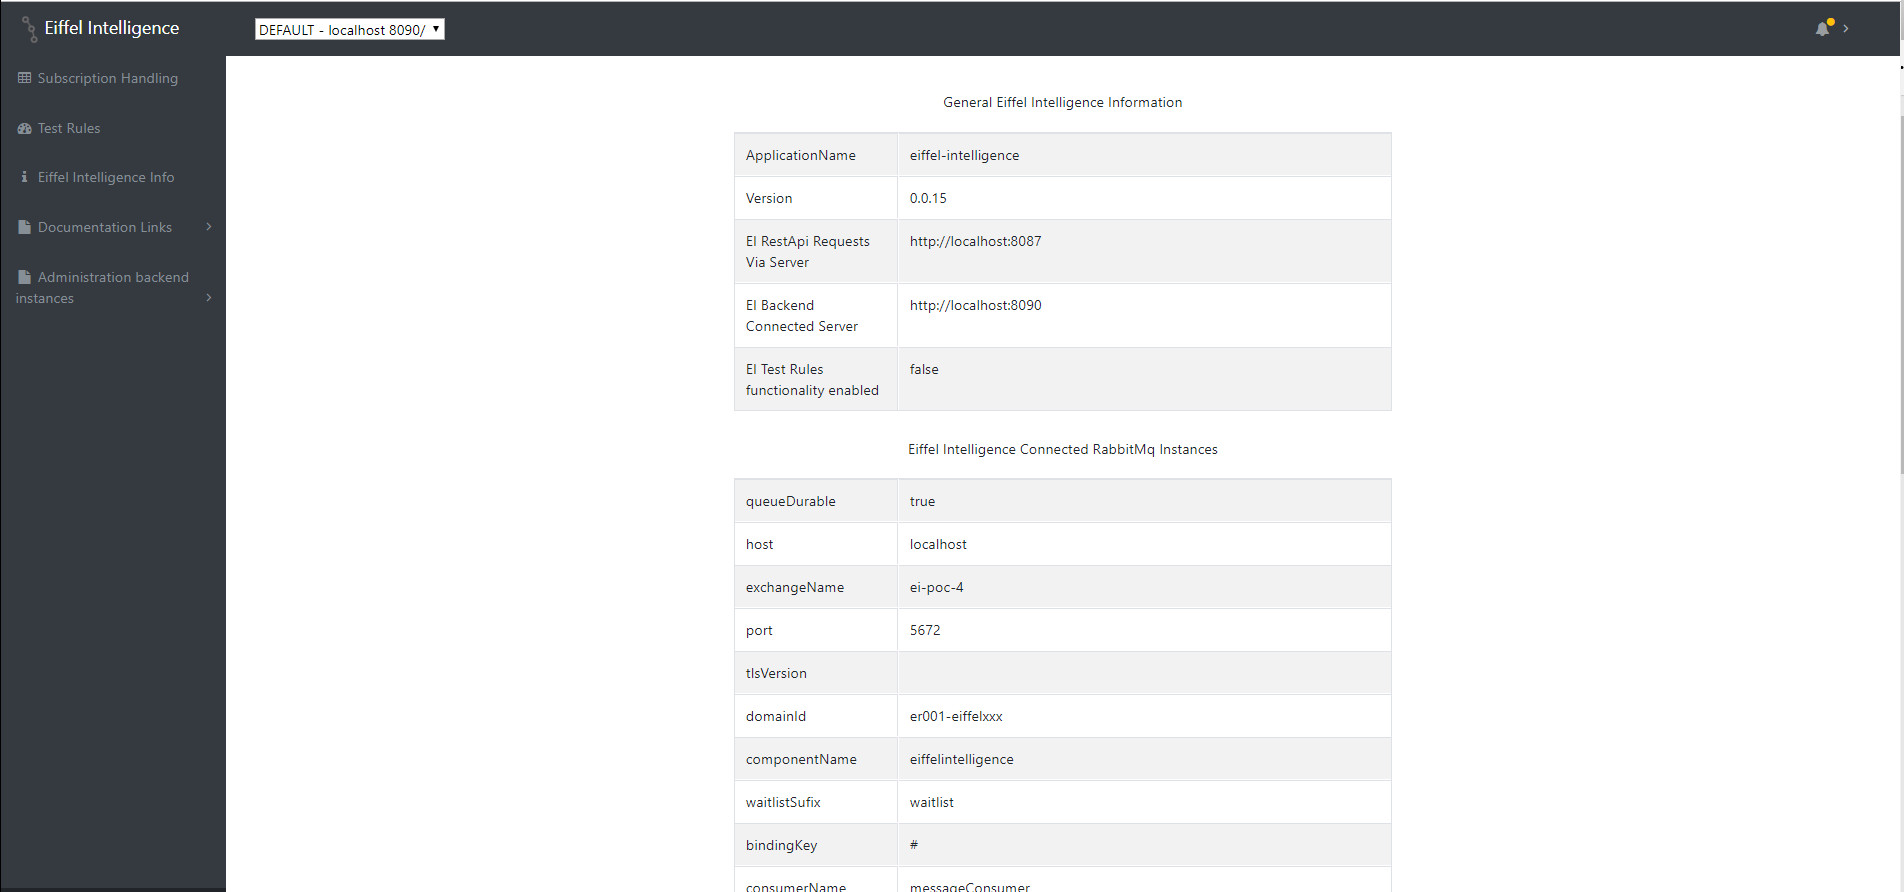
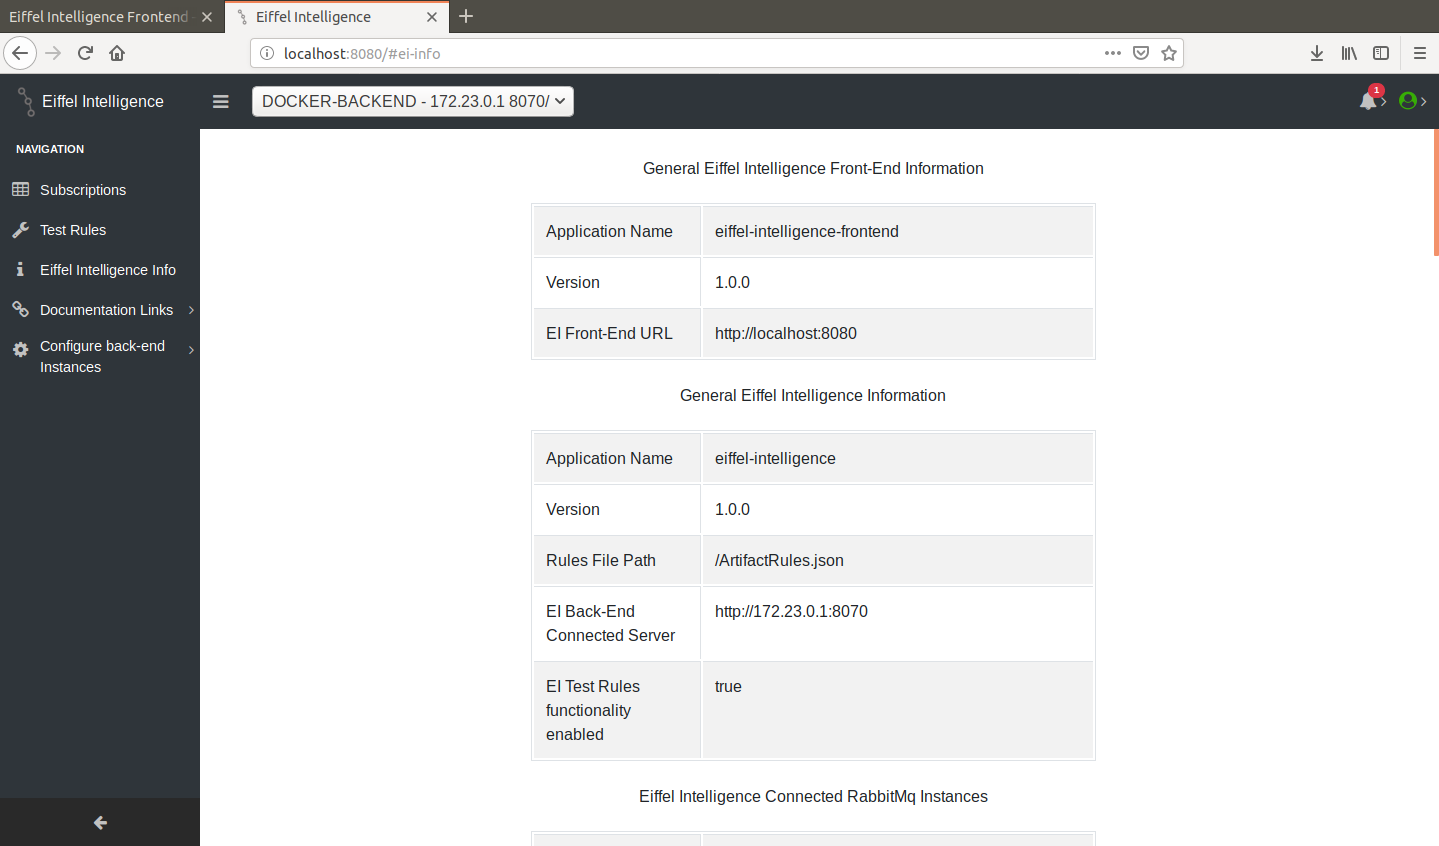
Updated images with new GUI
Removed html tags intest-rules.md file

diff --git a/wiki/markdown/test-rules.md b/wiki/markdown/test-rules.md
@@ -1,41 +1,58 @@
 # Test Rules User Guide
 
-<p>Clicking on the Test Rules element in the navigator window opens an interface in the work window and interacts with the /rules/rule-check end point of Eiffel Intelligence. This interface can be used to test rules on events.</p>
+Clicking on the Test Rules element in the navigator window opens an
+interface in the work window and interacts with the `/rules/rule-check`
+end point of Eiffel Intelligence. This interface can be used to test
+rules on events.
 
-<h2>“Test Rules” Graphical User Interface</h2>
+## “Test Rules” Graphical User Interface ##
 
-<p>The graphical user interface for testing rules consists of two panes. Left pane is intended to add the rules and right pane is intended for adding the Eiffel events.</p>
+The graphical user interface for testing rules consists of two panes.
+Left pane is intended to add the rules and right pane is intended for
+adding the Eiffel events.
 
 <img src="images/GUI_TestRules.png" />
 
-<h3>Add</h3>
+### Add ###
 
-<p>Add buttons are for adding new rules/events. When you click on one of them, a new text area will show up. Then you can write or paste rule/event into it. There can be only one JSON object per text area. This means that it is not allowed to have more than one rule/event per text area.</p>
+Add buttons are for adding new rules/events. When you click on one of
+them, a new text area will show up. Then you can write or paste rule/event
+into it. There can be only one JSON object per text area. This means
+that it is not allowed to have more than one rule/event per text area.
 
-<h3>Load From File</h3>
+### Load From File ###
 
-<p>Load buttons are for loading rules/events from external files. The file content should be formatted as JSON objects in a JSON list, ex. [{Object1}, {Object2}]. After clicking on the button, it is possible to choose between replacing and appending to already written rules/events. A pop-up window with those two options shows up.</p>
+Load buttons are for loading rules/events from external files. The file
+content should be formatted as JSON objects in a JSON list, ex.
+`[{Object1}, {Object2}]`. After clicking on the button, it is possible
+to choose between replacing and appending to already written rules/events.
+A pop-up window with those two options shows up.
 
 <img src="images/GUI_TestRules_Replace_Append.png" />
 
-<p>After that, you need to choose from which file you want to load rules/events.</p>
+After that, you need to choose from which file you want to load rules/events.
 
 <img src="images/GUI_TestRules_Browse_File.png" />
 
-<p>When the file has been chosen, rules or events are loaded into text areas. In this example events template was loaded and the result can be seen on the image below.</p>
+When the file has been chosen, rules or events are loaded into text areas.
+In this example events template was loaded and the result can be seen on
+the image below.
 
 <img src="images/GUI_TestRules_Events.png" />
 
-<h3>Download</h3>
+### Download ###
 
-<p>Download buttons are for downloading edited rules/events. This enables to edit rules/events locally and then upload them using above mentioned “Load From File” buttons.</p>
+Download buttons are for downloading edited rules/events. This enables to
+edit rules/events locally and then upload them using above mentioned
+“Load From File” buttons.
 
-<h3>Get Template</h3>
+### Get Template ###
 
-<p>By clicking on "Get Template" buttons you will download rules respective events template. Rule´s template contains 3 rules and event´s template contains 3 events.</p>
+By clicking on "Get Template" buttons you will download rules respective
+events template. Rule´s template contains 3 rules and event´s template
+contains 3 events.
 
-
-Rules Template
+**Rules Template**
 
     [
       {
@@ -96,7 +113,7 @@ Rules Template
     ]
 
 
-Events Template
+**Events Template**
 
     [
       {
@@ -235,29 +252,37 @@ Events Template
     ]
 
 
-<h3>Clear All Rules/Clear All Events</h3>
+### Clear All Rules/Clear All Events ###
 
-<p>"Clear All" buttons remove all rules respective events. After clicking on button, a pop-up window shows up and asks for confirmation. After confirming all rules or events are removed.</p>
+"Clear All" buttons remove all rules respective events. After clicking on
+button, a pop-up window shows up and asks for confirmation. After confirming
+all rules or events are removed.
 
 <img src="images/GUI_TestRules_Clear_All.png" />
 
-<h3>Trash Can Button</h3>
+### Trash Can Button ###
 
-<p>It is possible to remove single rule/event by clicking on trash can button next to specific text area.</p>
+It is possible to remove a single rule/event by clicking on trash can
+button next to specific text area.
 
-<h3>Find Aggregated Object</h3>
+### Find Aggregated Object ###
 
-<p>Clicking on "Find Aggregated Object" button will start the aggregation process. If rules and events are correct, a pop-up window with the aggregated object will show up on the screen.</p>
+Clicking on "Find Aggregated Object" button will start the aggregation
+process. If rules and events are correct, a pop-up window with the
+aggregated object will show up on the screen.
 
 <img src="images/GUI_TestRules_Aggregated_Object.png" />
 
-<h2>Curl</h2>
+## Curl ##
 
-<p>It is possible to use curl to get required information. To get information about test rules status, if this functionality is enabled in back end or not, you can execute command below.</p>
+It is possible to use curl to get required information. To get information
+about test rules status, if this functionality is enabled in back end or
+not, you can execute command below.
 
     curl -X GET http://<host>:8080/rules/rule-check/testRulePageEnabled?backendurl="http://127.0.0.1:8090/"
 
-<p>To execute rules on specific events with curl, you need to create a JSON file with rules and events. File should contain:</p>
+To execute rules on specific events with curl, you need to create a JSON
+file with rules and events. File should contain:
 
     {
         "listEventsJson": [
@@ -272,7 +297,7 @@ Events Template
         ]
     }
 
-<p>And then run curl command below.</p>
+And then run curl command below.
 
     curl -X POST -d "@<path to file>" -H "Content-Type: application/json" http://<host>:8080/rules/rule-check/aggregation?backendurl="http://127.0.0.1:8090/"
 

diff --git a/wiki/markdown/add-subscription.md b/wiki/markdown/add-subscription.md
@@ -1,44 +1,59 @@
 # Add Subscription
 
-This form is used to add subscription through frontend GUI. Here is a 
+This form is used to add subscription through frontend GUI. Here is a
 description of the elements available on this form.
 
-**Load Subscription Template:** In this dropdown list options are given to 
-select a specific template for the subscription form. Currently, the following 
-options are listed: Jenkins Pipeline Parametrized Job Trigger, REST POST and 
+<img src="images/add_subscription_form1.png">
+</img>
+
+**Load Subscription Template:** In this dropdown list, options are given to
+select a specific template for the subscription form. Currently, the following
+options are listed: Jenkins Pipeline Parametrized Job Trigger, REST POST and
 Mail Trigger.
 
-**SubscriptionName:** A field to give a name to the current subscription. Only 
+**SubscriptionName:** A field to give a name to the current subscription. Only
 letters, underscore and numbers are allowed in this field.
 
-**NotificationType:** There are two options: REST POST and 
-Mail Trigger, depending on how a subscriber want to be notified when a 
-subscription is fulfilled. If Notification type MAIL is selected an email 
+**NotificationType:** There are two options: REST POST and
+Mail Trigger, depending on how a subscriber want to be notified when a
+subscription is fulfilled. If Notification type MAIL is selected an email
 subject may be entered, but it is optional.
 
-**RestPostMediaType:** Options for selecting a 
-specific form content type. The options available in the list depends on the 
+**RestPostMediaType:** Options for selecting a
+specific form content type. The options available in the list depends on the
 selected template type.
 
-**NotificationMessage:** It is used to send a message to a specific client. The 
-format of the message depends on the options selected in the NotificationMessage 
-and RestPostMediaType. A button, “Add Key/Value pair”, in this field may be 
-used to add more messages.
+**NotificationMessage:** It is used to send a message to a specific client. The
+format of the message depends on the options selected in the NotificationMessage
+and RestPostMediaType. A button, “Add Key/Value pair”, in this field may be
+used to add more messages, if the selected RestPostBodyMediaType is FORM/POST
+parameters.
 
-**Authorization:** A list to select authorization type. Currently, only one 
-authorization type is provided which is “BASIC_AUTH”. The option “NO_AUTH” 
+**NotificationMeta:** Is the selected subscriber to notify when a subscription
+is triggered. It could be an email address such as `example@mail.com` or a url
+like `host.com/endpoint`. If you wish to trigger Jenkins job when a subscription
+is fulfilled then the url for the job could be set as the notificationMeta.
+Parameters such as a Jenkins job-token can be included in this field.
+**Note**: The job-token should not be mistaken for the API token that is
+used as a password for authentication against the entire jenkins instance.
+
+<img src="images/add_subscription_form2.png">
+</img>
+
+**Authorization:** A list to select authorization type. Currently, only one
+authorization type is supported, which is “BASIC_AUTH”. The option “NO_AUTH”
 implies that authorization is not required.
 
-**Repeat:** It is possible to enable repeat, e.g. whether same subscription 
-should be re-triggered for new additions to the aggregated object. If disabled, 
-the notification will be triggered only the first time when conditions are 
-fulfilled. 
+**Repeat:** It is possible to enable repeat, e.g. whether same subscription
+should be re-triggered for new additions to the aggregated object. If disabled,
+the notification will be triggered only the first time when conditions are
+fulfilled.
 
-**Requirement:** It is used to add a requirement, which need to be fulfilled 
-before a subscription is triggered. Requirement is added in the form of a 
-condition (with a specific format). More than one conditions may be added under 
-one requirement by using “Add Condition” button. It should be noted that 
-conditions under one requirement are connected by logical “AND”. Thus all 
-conditions udder one requirement need to be satisfied before a subscription is 
-triggered. More than one requirements may be added by “Add Requirement” button. 
+**Requirement:** It is used to add a requirement, which need to be fulfilled
+before a subscription is triggered. Requirement is added in the form of a
+condition (with a specific format). More than one conditions may be added under
+one requirement by using “Add Condition” button. It should be noted that
+conditions under one requirement are connected by logical “AND”. Thus all
+conditions udder one requirement need to be satisfied before a subscription is
+triggered. More than one requirements may be added by “Add Requirement” button.
 Requirements are connected by logical “OR”.

diff --git a/wiki/markdown/subscription-handling.md b/wiki/markdown/subscription-handling.md
@@ -4,7 +4,10 @@ Clicking on the Subscription Handling element will display some buttons in main
 page which help perform a number of subscription related actions. A table may
 become visible, which is populated by the information about the stored (if any)
 subscriptions in the connected database. This view is also the default view of
-the Eiffel Intelligence Frontend, once the authentication (if enabled)is done.
+the Eiffel Intelligence Frontend, once the authentication (if enabled) is done.
+
+<img src="images/subscription_handling.png">
+</img>
 
 #### _Add Subscription_
 This button opens a form with a number of fields to create a subscription
@@ -23,8 +26,6 @@ This button help uploads a subscription by opening a file explorer
 This button indicates, through its color, whether a backend instance is
 connected with frontend or not. The green color means backend is connected
 while red means no instance is connected.
-#### _Search_
-To search subscriptions with matching names in the database (displayed in the
-table).
+
 
 **_More Subscriptions related information can be found [here](https://github.com/eiffel-community/eiffel-intelligence/tree/master/wiki/markdown/subscription-API.md) and [here](https://github.com/eiffel-community/eiffel-intelligence/tree/master/wiki/markdown/subscriptions.md)_**

diff --git a/wiki/markdown/GUI-overview.md b/wiki/markdown/GUI-overview.md
@@ -1,16 +1,16 @@
 # GUI Overview
 
-Eiffel Intelligence Frontend GUI can be divided into two parts a navigation 
+Eiffel Intelligence Frontend GUI can be divided into two parts a navigation
 window and a work window.
 
-<img src="images/GUI_subscription_example.png">
+<img src="images/subscription_handling.png">
 </img>
 
-As the name suggests, navigation window provides its users one click access to 
-the resources to interact with EI. This window contains some buttons. Clicking 
-on any of these buttons result in either opening an interactive form in the 
+As the name suggests, the navigation bar provides its users one click access to
+the resources to interact with EI. This window contains some buttons. Clicking
+on any of these buttons result in either opening an interactive form in the
 work window or opening a new window with some information resource.
 
-A detailed description of the interactive elements present in the navigation 
-window and corresponding interactions in the work window is described in the 
+A detailed description of the interactive elements present in the navigation
+window and corresponding interactions in the work window is described in the
 following pages.
